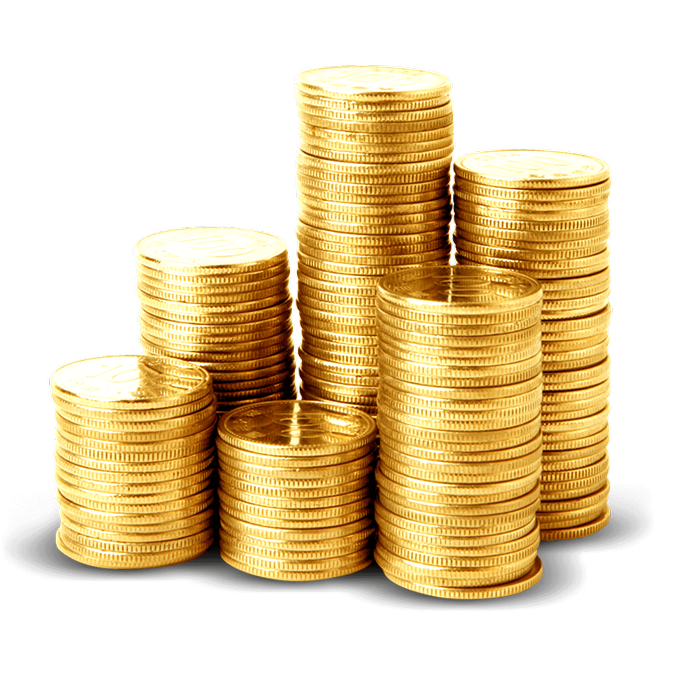
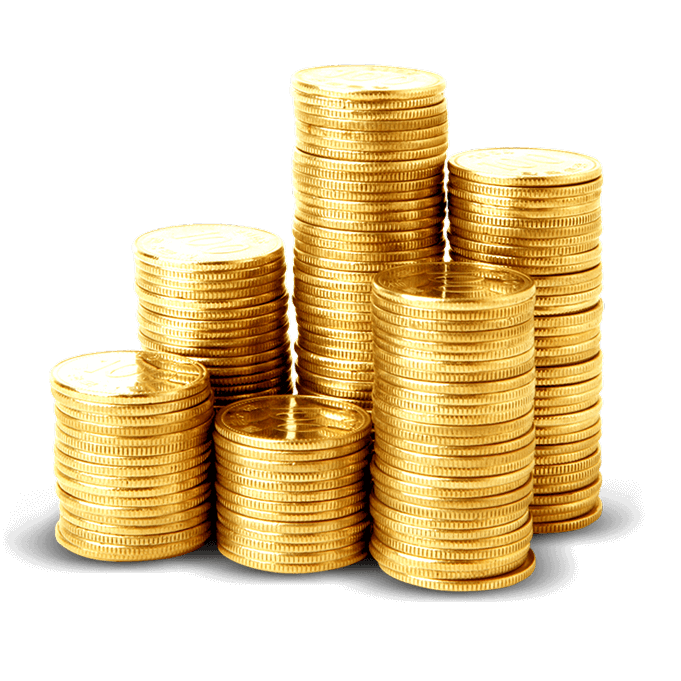
Optimize performance via replacing image assets

diff --git a/index.html b/index.html
@@ -41,6 +41,7 @@
       rel="stylesheet"
       integrity="sha384-rbsA2VBKQhggwzxH7pPCaAqO46MgnOM80zW1RWuH61DGLwZJEdK2Kadq2F9CUG65"
       crossorigin="anonymous"
+      preload
     />
     <link
       rel="stylesheet"
@@ -48,6 +49,7 @@
       integrity="sha512-z3gLpd7yknf1YoNbCzqRKc4qyor8gaKU1qmn+CShxbuBusANI9QpRohGBreCFkKxLhei6S9CQXFEbbKuqLg0DA=="
       crossorigin="anonymous"
       referrerpolicy="no-referrer"
+      preload 
     />
     <link rel="stylesheet" href="/dist/styles.css" />
     <style>
@@ -314,7 +316,10 @@
         <main class="col-md-9 m-sm-auto">
             <div class="row flex flex-lg-row-reverse justify-content-center justify-content-lg-start align-items-center  py-5">
               <div class="col-10 col-sm-8 col-lg-6">
-                <img src="assets/img/coins.png" class="d-block mx-lg-auto img-fluid" alt="Bootstrap Themes" width="700" height="500" loading="lazy">
+                <picture>
+                  <source srcset="assets/img/coins.webp" type="image/webp">
+                  <img src="assets/img/coins.png" class="d-block mx-lg-auto img-fluid" alt="Bootstrap Themes" width="700" height="500">
+                </picture>
               </div>
               <div class="col-lg-6">
                 <div class="d-flex flex-column justify-content-center justify-content-lg-start align-items-center align-items-lg-start">
@@ -494,7 +499,7 @@
                   <div class="row mt-1 mt-lg-2 g-2 g-lg-4">
                     <div class="col-lg-6">
                       <div class="card text-bg-dark border-light">
-                        <img src="assets/img/social feed.jpg" class="card-img opacity-50 w-100" alt="...">
+                        <img src="assets/img/social feed.jpg" class="card-img opacity-50 w-100" alt="..." loading="lazy">
                         <div class="card-img-overlay d-flex flex-column justify-content-center align-items-center p-5">
                           <h5 class="card-title fw-normal text-center">Social feed</h2>
                         </div>
@@ -502,7 +507,7 @@
                     </div>
                     <div class="col-lg-6">
                       <div class="card text-bg-dark border-light">
-                        <img src="assets/img/community project.jpg" class="card-img opacity-50 w-100" alt="...">
+                        <img src="assets/img/community project.jpg" class="card-img opacity-50 w-100" alt="..." loading="lazy">
                         <div class="card-img-overlay d-flex flex-column justify-content-center align-items-center p-5">
                           <h5 class="card-title fw-normal text-center mb-4">Need a sponsor for community project</h2>
                           <a class="btn btn-secondary" href="#">Apply for Community Support</a>
@@ -745,12 +750,14 @@
       src="https://cdn.jsdelivr.net/npm/bootstrap@5.2.3/dist/js/bootstrap.bundle.min.js"
       integrity="sha384-kenU1KFdBIe4zVF0s0G1M5b4hcpxyD9F7jL+jjXkk+Q2h455rYXK/7HAuoJl+0I4"
       crossorigin="anonymous"
+      async
     ></script>
     <script
       src="https://cdnjs.cloudflare.com/ajax/libs/font-awesome/6.4.2/js/all.min.js"
       integrity="sha512-uKQ39gEGiyUJl4AI6L+ekBdGKpGw4xJ55+xyJG7YFlJokPNYegn9KwQ3P8A7aFQAUtUsAQHep+d/lrGqrbPIDQ=="
       crossorigin="anonymous"
       referrerpolicy="no-referrer"
+      async
     ></script>
     <script defer src="/dist/script.js"></script>
   </body>

diff --git a/dist/script.js b/dist/script.js
@@ -1,2 +1,2 @@
-"use strict";console.log("Hello World");var mybutton=document.getElementById("btn-back-to-top");function scrollFunction(){document.body.scrollTop>20||document.documentElement.scrollTop>20?mybutton.style.display="block":mybutton.style.display="none"}function backToTop(){document.body.scrollTop=0,document.documentElement.scrollTop=0}window.onscroll=function(){scrollFunction()},mybutton.addEventListener("click",backToTop);
+"use strict";var mybutton=document.getElementById("btn-back-to-top");function scrollFunction(){document.body.scrollTop>20||document.documentElement.scrollTop>20?mybutton.style.display="block":mybutton.style.display="none"}function backToTop(){document.body.scrollTop=0,document.documentElement.scrollTop=0}window.onscroll=function(){scrollFunction()},mybutton.addEventListener("click",backToTop);
 //# sourceMappingURL=script.js.map

diff --git a/app/js/script.js b/app/js/script.js
@@ -1,5 +1,3 @@
-console.log('Hello World');
-
 //Get the button
 let mybutton = document.getElementById("btn-back-to-top");
 
